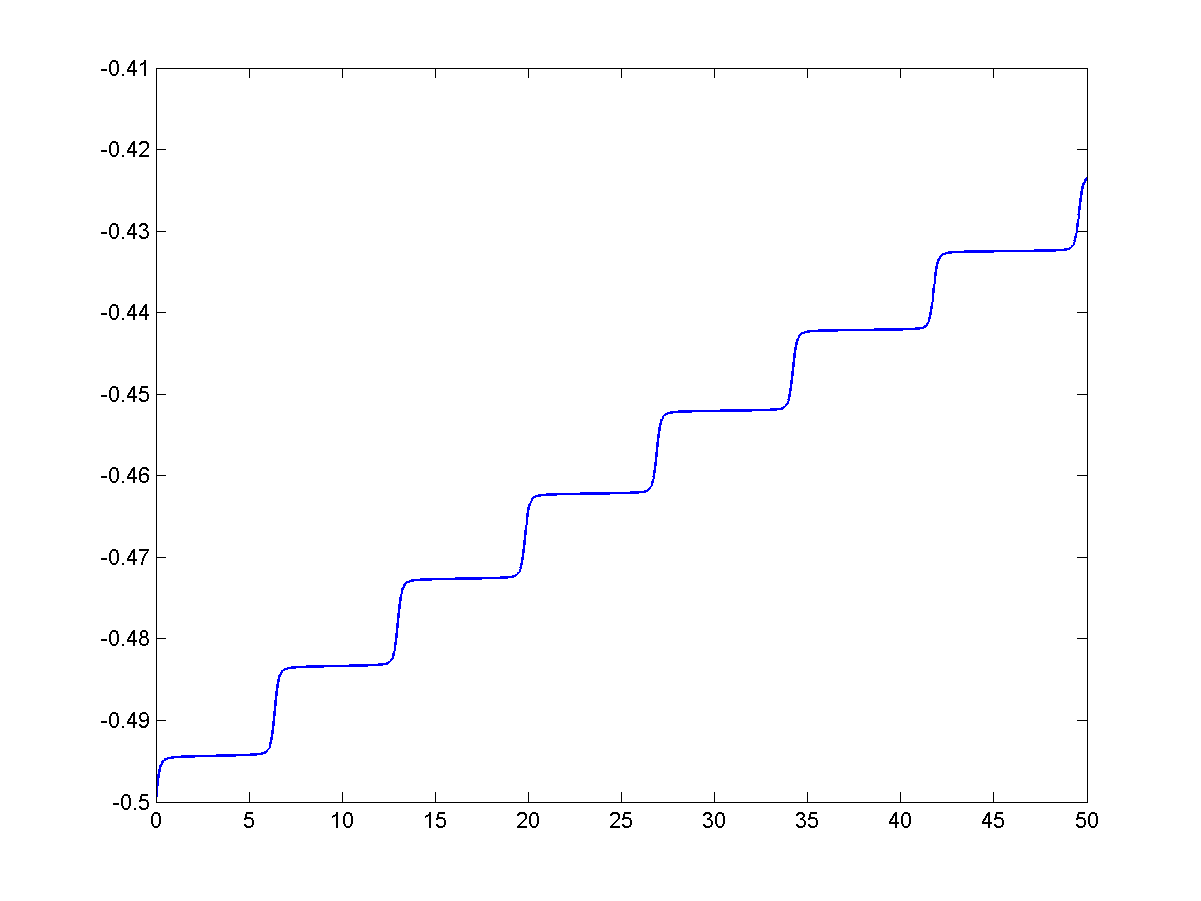
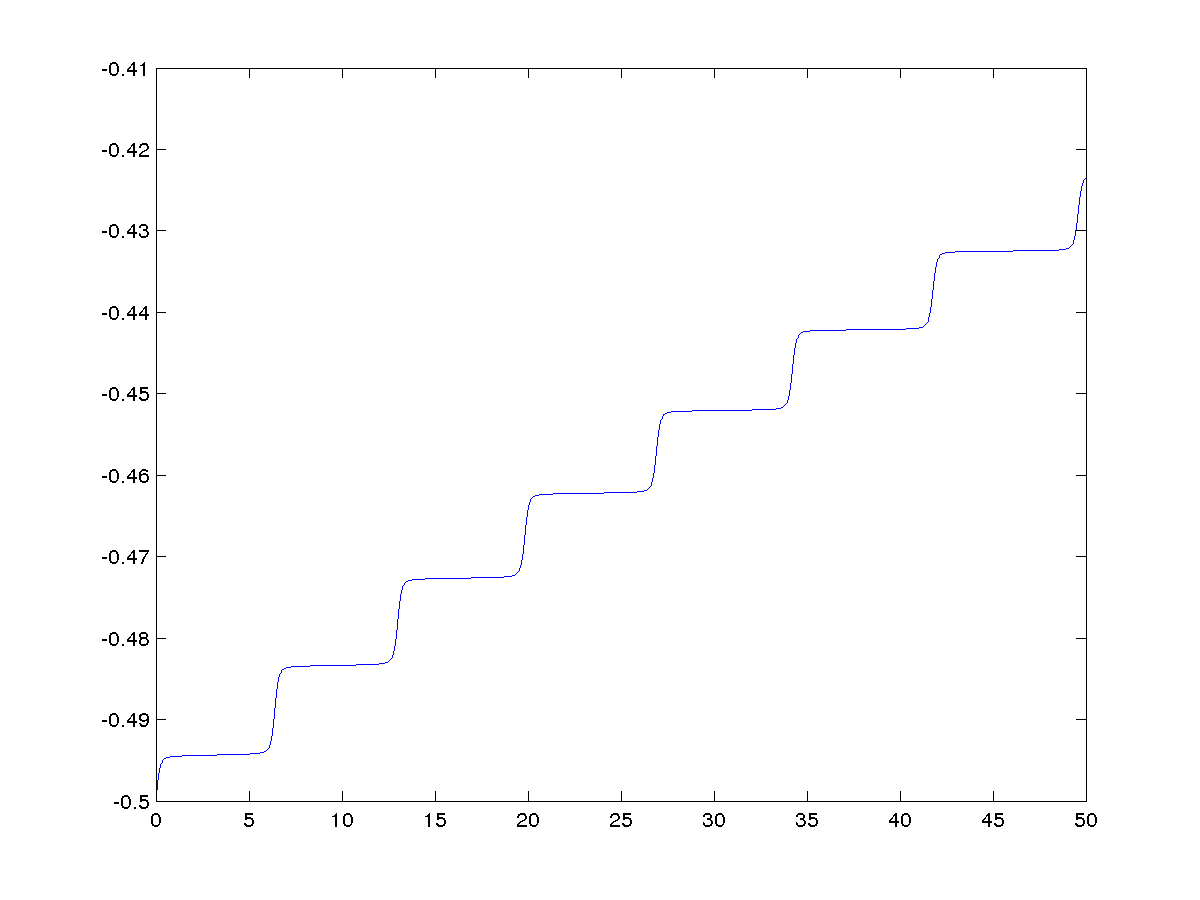
Add lambdas

diff --git a/devoir4/Q1/q1.tex b/devoir4/Q1/q1.tex
@@ -1,6 +1,8 @@
 \section{Question 1}
 \subsection{Équations du mouvement}
-Soit le système hamiltonien à deux corps, d'invariant $\Ha (p,q)$ où $p$ est la vitesse de chaque corps et $q$ leur position \footnote{On a évidemment $p(t)$ et $q(t)$. Pour une planète, la composante $p_1$ représente sa vitesse dans la direction "$x$" du plan et la composante $p_2$, sa vitesse dans la direction "$y$" du plan.}. Considérons tout d'abord un système où un des deux corps a une masse considérablement plus élevée que l'autre, ce qui nous permet de le considérer comme statique. On a alors 
+Soit le système hamiltonien à deux corps, d'invariant $\Ha (p,q)$ où $p$ est la vitesse de chaque corps et $q$ leur position
+\footnote{On a évidemment $p(t)$ et $q(t)$. Pour une planète, la composante $p_1$ représente sa vitesse dans la direction ``$x$'' du plan et la composante $p_2$, sa vitesse dans la direction ``$y$'' du plan.}.
+Considérons tout d'abord un système où un des deux corps a une masse considérablement plus élevée que l'autre, ce qui nous permet de le considérer comme statique. On a alors
 $$\Ha (p,q) = \frac{1}{2} p^T p - \frac{1}{||q||_2} . $$
 On sait que $\dot{\Ha}(p,q) = 0$ car $\Ha$ est invariant dans le temps.
 De plus, comme (par la règle de dérivée en chaîne)
@@ -56,19 +58,22 @@ on calcule
     2q_1\\
     2q_2
   \end{pmatrix}\\
-  & = \frac{-q}{\|q\|_2^3}.
+  & = \frac{-q}{\|q\|_2^3}
 \end{align*}
-Les équations du mouvement sont donc données par : 
+ce qui n'est guère étonnant pour $\dot{q} = p$ car comme $q$ est la position,
+$\dot{q}$ est la vitesse, c'est à dire $p$.
+
+Les équations du mouvement sont donc données par :
 \begin{equation} \label{equation_mvt}
 \left\lbrace
-\begin{array}{ccc} 
+\begin{array}{ccc}
 \dot{q} &=& p\\
 \dot{p} &=&  \frac{-q}{\|q\|_2^3}
 \end{array}
 \right.
 \end{equation}
 
-Ce système d'équation différentiel admet une unique solution dans $\mathbb{R}_0^4$. En effet : 
+Ce système d'équation différentiel admet une unique solution dans $\mathbb{R}_0^4$. En effet :
 \begin{eqnarray}
 ||f_1(x)-f_1(y)|| &\leq & ||x-y|| \\
 ||f_2(x) - f_2(y)|| &\leq & \left\|\frac{x}{\|x\|_2^3} - \frac{y}{\|y\|_2^3}\right\| \leq \max(\frac{1}{\|x\|_2^3}, \frac{1}{\|y\|_2^3}) ||x-y||.
@@ -76,11 +81,11 @@ Ce système d'équation différentiel admet une unique solution dans $\mathbb{R}
 Ce qui implique que le système est Lipschitzien, et par le théorème 5.1 du cours, le système \ref{equation_mvt} admet une unique solution.
 
 \subsection{Description des méthodes numériques}
-Nous souhaitons intégrer ces systèmes d'équations différentiels non-linéaires (de forme générale $y'(t) = f(t,y)$, où $y$ désigne aussi bien un scalaire qu'un vecteur) par des méthodes numériques : 
+Nous souhaitons intégrer ces systèmes d'équations différentiels non-linéaires (de forme générale $y'(t) = f(t,y)$, où $y$ désigne aussi bien un scalaire qu'un vecteur) par des méthodes numériques :
 \begin{itemize}
 \item la méthode d'Euler explicite, $y_{n+1} = y_n + h f(t,y_n)$
 \item la méthode d'Euler implicite, $y_{n+1} = y_n + h f(t,y_{n+1})$ qui demande de résoudre une équation non-linéaire de type $g(y_{n+1})=0$, qu'on résoudra en utilisant la méthode itérative de Newton-Raphson
-\item la méthode d'Euler symplectique qui est une combinaison des méthodes d'Euler implicite et explicite (on applique le schéma implicite à une composante de $y$ et un schéma explicite à l'autre). 
+\item la méthode d'Euler symplectique qui est une combinaison des méthodes d'Euler implicite et explicite (on applique le schéma implicite à une composante de $y$ et un schéma explicite à l'autre).
 \end{itemize}
 
 On remarque que $f_1(q,p) = f_1(p)$ et $f_2(q,p) = f_2(q)$.
@@ -174,7 +179,7 @@ Appliquons a présent ces méthodes sur un cas concret où la planète mobile a 
 $ et $q_0 = \begin{pmatrix}
 0.4\\
 0
-\end{pmatrix} 
+\end{pmatrix}
 $.\\
 
 Nous allons appliquer à ce cas les différentes méthodes d'intégration numérique pour 100 000 pas de temps dont la valeur est $h=5e-4$ (Euler implicite et explicite) ou $h=5e-2$ (Euler symplectique). Les résultats sont donnés à la figure \ref{fig:q1}.
@@ -182,43 +187,58 @@ Nous allons appliquer à ce cas les différentes méthodes d'intégration numér
 
 \begin{figure}
   \centering
-  \begin{subfigure}[b]{0.3\textwidth}
+  \begin{subfigure}[b]{0.45\textwidth}
     \includegraphics[width=\textwidth]{images/Q1_explicite_q.png}
     \caption{$q$ pour explicite}
     \label{fig:q1_explicite_q}
   \end{subfigure}%
   ~ %add desired spacing between images, e. g. ~, \quad, \qquad etc.
   %(or a blank line to force the subfigure onto a new line)
-  \begin{subfigure}[b]{0.3\textwidth}
+  \begin{subfigure}[b]{0.45\textwidth}
+    \includegraphics[width=\textwidth]{images/Q1_explicite_H.png}
+    \caption{$\Ha$ pour explicite}
+    \label{fig:q1_explicite_H}
+  \end{subfigure}
+  \begin{subfigure}[b]{0.45\textwidth}
     \includegraphics[width=\textwidth]{images/Q1_explicite_p.png}
     \caption{$p$ pour explicite}
     \label{fig:q1_explicite_p}
   \end{subfigure}
   ~
-  \begin{subfigure}[b]{0.3\textwidth}
-    \includegraphics[width=\textwidth]{images/Q1_explicite_H.png}
-    \caption{$\Ha$ pour explicite}
-    \label{fig:q1_explicite_H}
+  \begin{subfigure}[b]{0.45\textwidth}
+    \includegraphics[width=\textwidth]{images/Q1_explicite_lambda.png}
+    \caption{$h\lambda(J(q,p))$ pour explicite}
+    \label{fig:q1_explicite_lambda}
   \end{subfigure}
-  \begin{subfigure}[b]{0.3\textwidth}
+  \begin{subfigure}[b]{0.45\textwidth}
     \includegraphics[width=\textwidth]{images/Q1_implicite_q.png}
     \caption{$q$ pour implicite}
     \label{fig:q1_implicite_q}
   \end{subfigure}%
   ~
   %(or a blank line to force the subfigure onto a new line)
-  \begin{subfigure}[b]{0.3\textwidth}
+  \begin{subfigure}[b]{0.45\textwidth}
+    \includegraphics[width=\textwidth]{images/Q1_implicite_H.png}
+    \caption{$\Ha$ pour implicite}
+    \label{fig:q1_implicite_H}
+  \end{subfigure}
+  \begin{subfigure}[b]{0.45\textwidth}
     \includegraphics[width=\textwidth]{images/Q1_implicite_p.png}
     \caption{$p$ pour implicite}
     \label{fig:q1_implicite_p}
   \end{subfigure}
   ~
-  \begin{subfigure}[b]{0.3\textwidth}
-    \includegraphics[width=\textwidth]{images/Q1_implicite_H.png}
-    \caption{$\Ha$ pour implicite}
-    \label{fig:q1_implicite_H}
+  \begin{subfigure}[b]{0.45\textwidth}
+    \includegraphics[width=\textwidth]{images/Q1_implicite_lambda.png}
+    \caption{$h\lambda(J(q,p))$ pour implicite}
+    \label{fig:q1_implicite_lambda}
   \end{subfigure}
+  \caption{Résultats pour la question 1 pour euler explicite et implicite}
+  \label{fig:q1_sym}
+\end{figure}
 
+\begin{figure}
+  \centering
   \begin{subfigure}[b]{0.3\textwidth}
     \includegraphics[width=\textwidth]{images/Q1_symplectique1_q.png}
     \caption{$q$ pour symplectique1}
@@ -256,58 +276,57 @@ Nous allons appliquer à ce cas les différentes méthodes d'intégration numér
     \caption{$\Ha$ pour symplectique2}
     \label{fig:q1_symplectique2_H}
   \end{subfigure}
-  \caption{Résultats pour la question 1}
-  \label{fig:q1}
+  \caption{Résultats pour la question 1 pour euler symplectique}
+  \label{fig:q1_sym}
 \end{figure}
 
 
 Les principaux points de comparaison des méthodes sont la convergence, l'erreur et le temps de calcul de la méthode.
 
-\paragraph{Convergence : }
-Pour étudier la convergence, nous aurons besoin de la Jacobienne :  
-$$J(q,p) = 
+\subsubsection{Convergence}
+Pour étudier la convergence, nous aurons besoin de la Jacobienne :
+$$J(q,p) =
 \begin{pmatrix}
-0 & 0 & 1 & 0\\
-0 & 0 & 0 & 1\\\\
-\frac{2*q_1^2 + q_2^2}{(q_1^2+q_2^2)^{5/2}} & \frac{-3q_1q_2}{(q_1^2+q_2^2)^{5/2}} & 0 & 0 \\
-\frac{-3q_1q_2}{(q_1^2+q_2^2)^{5/2}} & \frac{2*q_2^2 + q_1^2}{(q_1^2+q_2^2)^{5/2}} & 0 & 0
-
-\end{pmatrix}
+  0 & 0 & 1 & 0\\
+  0 & 0 & 0 & 1\\\\
+  \frac{2q_1^2 + q_2^2}{(q_1^2+q_2^2)^{5/2}} & \frac{-3q_1q_2}{(q_1^2+q_2^2)^{5/2}} & 0 & 0 \\
+  \frac{-3q_1q_2}{(q_1^2+q_2^2)^{5/2}} & \frac{2q_2^2 + q_1^2}{(q_1^2+q_2^2)^{5/2}} & 0 & 0
+\end{pmatrix}.
 $$
-Pour rappel, l'erreur entre la "vraie" solution d'une équation différentielle ordinaire et celle obtenue pour des conditions initiales perturbée est définie comme : 
-$$\left\lbrace 
+Pour rappel, l'erreur entre la ``vraie'' solution d'une équation différentielle ordinaire et celle obtenue pour des conditions initiales perturbée est définie comme :
+$$\left\lbrace
 \begin{array}{ccc}
 e' &=& \lambda e\\
 e(a) &=& \epsilon
 \end{array}
-\right.  
-$$ 
-Où $\lambda$ est la jacobienne du système évaluée en un certain point. Le système sera donc stable si $\mathcal{R} (J) <0$. Pour un système d'équations différentielles, on a donc : 
-$$\left\lbrace 
+\right.
+$$
+Où $\lambda$ est la jacobienne du système évaluée en un certain point. Le système sera donc stable si $\mathcal{R} (J) <0$. Pour un système d'équations différentielles, on a donc :
+$$\left\lbrace
 \begin{array}{ccc}
 e' &=& A e\\
 e(a) &=& \epsilon
 \end{array}
-\right.  
-$$ 
-Si $A$ est diagonalisable, on peut effectuer un changement de variable tel que 
-$$\left\lbrace 
+\right.
+$$
+Si $A$ est diagonalisable, on peut effectuer un changement de variable tel que
+$$\left\lbrace
 \begin{array}{ccc}
 \tilde{e} ' &=& D \tilde{e}\\
 \tilde{e} (a) &=& \epsilon
 \end{array}
-\right.  
-$$ 
+\right.
+$$
 Où $D$ est la matrice diagonale des valeurs propres. On se retrouve alors avec $n$ équations différentielle découplées dont la condition de stabilité est $\mathcal{R} (\lambda_i) <0$; c'est-à-dire tel que toutes les valeurs propres de la jacobienne soient à gauche de l'axe imaginaire.\\
-On voit directement que notre système n'est pas stable. En effet, calculons par exemple les valeurs propres au point de départ : 
-$$J(q,p) = 
+On voit directement que notre système n'est pas stable. En effet, calculons par exemple les valeurs propres au point de départ :
+$$J(q,p) =
 \begin{pmatrix}
 0 & 0 & 1 & 0\\
 0 & 0 & 0 & 1\\\\
  31.2500 & 0  & 0 & 0 \\
 0 & 15.6250 & 0 & 0
 \end{pmatrix}
-\Longrightarrow eig(J(p,q))=
+\Longrightarrow \mathrm{eig}(J(p,q))=
 \begin{pmatrix}
 5.5902\\
 -5.5902\\
@@ -316,8 +335,15 @@ $$J(q,p) =
 \end{pmatrix}
 $$
 
-Les résultats numériques des valeurs de $h \lambda$ à chaque itération (la jacobienne variant à chaque itération) sont donnés à la figure \ref{fig:hlambda}. On voit clairement que ces valeurs sont en dehors des zones de convergences d'Euler explicite (cercle de centre $(-1,0)$ et de rayon 1) ainsi que d'Euler implicite (tout le plan excepté le cercle de centre $(1,0)$ et de rayon 1), ce qui est bien naturel étant donné que l'équation analytique est elle-même instable.
-Notons bien sûre que le modèle n'est pas purement et simplement instable. En effet, comme la jacobienne dépend de $q$, il existe des zones de stabilité et des zones d'instabilité. Ce qui explique pourquoi le modèle n'explose pas après quelques itérations.
+Les résultats numériques des valeurs de $h \lambda$ à chaque itération (la jacobienne variant à chaque itération)
+sont donnés à la figure~\ref{fig:hlambda}.
+On voit clairement que ces valeurs sont en dehors des zones de convergences d'Euler explicite
+(cercle de centre $(-1,0)$ et de rayon 1) ainsi que d'Euler implicite
+(tout le plan excepté le cercle de centre $(1,0)$ et de rayon 1),
+ce qui est bien naturel étant donné que l'équation analytique est elle-même instable.
+Notons bien sûre que le modèle n'est pas purement et simplement instable.
+En effet, comme la jacobienne dépend de $q$, il existe des zones de stabilité et des zones d'instabilité.
+Ce qui explique pourquoi le modèle n'explose pas après quelques itérations.
 
 \begin{figure}
   \centering
@@ -345,7 +371,8 @@ Notons bien sûre que le modèle n'est pas purement et simplement instable. En e
   \label{fig:hlambda}
 \end{figure}
 
-Que se passe-t-il si on prend un pas $h$ trop grand? Les valeurs propres tendent toutes vers 0 et on obtient les résultats de la figure \ref{fig_rater}
+Que se passe-t-il si on prend un pas $h$ trop grand?
+Les valeurs propres tendent toutes vers 0 et on obtient les résultats de la figure~\ref{fig_rater}.
 
 \begin{figure}
   \centering
@@ -371,18 +398,39 @@ Que se passe-t-il si on prend un pas $h$ trop grand? Les valeurs propres tendent
 \label{fig_rater}
 \end{figure}
 
-\paragraph{Erreur : }
-L'erreur est par définition la différence entre la solution exacte et la solution obtenue par intégration numérique. Comme nous ne disposons pas de la solution exacte, nous ne pouvons pas utiliser cette définition. Cependant, nous pouvons utiliser le graphe de $\Ha$. 
-En effet, nous savons que la solution exacte est telle que $\dot{\Ha} = 0$ ou autrement dit $\Ha$ ne varie pas avec le temps (d'une itération à l'autre). Or sur la figure \ref{fig:q1}, on remarque que $\Ha$ augmente puis se stabilise plus ou moins à une certaine valeur (pour Euler explicite autour de $-0.495$ alors que la valeur initiale se situe à $-0.5$); tandis qu'il diminue puis se stabilise autour d'une certaine valeur ($-0.505$) pour Euler implicite. 
-On peut interpréter cela de la manière suivante. Le système d'équations différentielles \ref{equation_mvt} possède une infinité de solutions qui forment une famille de solutions. Avec une condition initiale, on obtient alors une unique solution (si la condition de Lipschitz est satisfaite). 
-Lorsqu'on intègre numériquement ce système avec les méthodes d'Euler, on commet forcément des erreurs qui, d'une itération à l'autre, nous font en quelques sorte passer d'une courbe de cette famille de solutions à une autre. 
-Ainsi on sur la figure \ref{fig:q1_explicite_H} on passe d'une courbe de la famille de solution à une autre pour ensuite se stabiliser au alentour d'une solution (pour laquelle $\Ha=-0.505$) qui n'est pas la vraie solution, mais qui en est à une distance constante. Pour Euler implicite (figure \ref{fig:q1_implicite_H}), c'est la même chose, sauf qu'on stabilise autour d'une autre courbe de cette famille de solution (pour laquelle $\Ha = -0.495$). 
-Pour le cas d'Euler symplectique, étant donné que le pas vaut $h=5.10^{-2}$, les 10000 itérations nous emmènent plus loin dans le temps. A chaque fois que l'on repasse près du point de départ, on change de courbe dans la famille de solutions (on oscille donc autour de la vraie solution, à une distance qui reste stable et relativement petite \footnote{On observe que Euler symplectique commet une erreur sur le $\Ha$ qui est plus grande que celle commise par Euler implicite ou explicite (on oscille ici entre $-0.4$ et $-0.54$). Cela est du au fait que la discrétisation temporelle est plus grossière. D'ailleurs si on applique Euler symplectique avec $h=5.10^{-4}$, on obtient un $\Ha$ dont la valeur oscille entre $-0.495$ et $0.505$.}). Alors que dans le cas d'un pas de temps beaucoup trop grand comme dans la figure \ref{fig_rater}, on va aussi s'écarter de la vraie solution pour se stabiliser autour d'une courbe de la famille de solutions (l'erreur reste alors constante, cf. figure \ref{fig_rater}), mais à une distance beaucoup plus grande de la vraie solution!
+\subsubsection{Erreur}
+L'erreur est par définition la différence entre la solution exacte et la solution obtenue par intégration numérique.
+Comme nous ne disposons pas de la solution exacte, nous ne pouvons pas utiliser cette définition. Cependant, nous pouvons utiliser le graphe de $\Ha$.
+En effet, nous savons que la solution exacte est telle que $\dot{\Ha} = 0$ ou autrement dit $\Ha$ ne varie pas avec le temps (d'une itération à l'autre).
+Or sur la figure \ref{fig:q1}, on remarque que $\Ha$ augmente puis se stabilise plus ou moins à une certaine valeur (pour Euler explicite autour de $-0.495$ alors que la valeur initiale se situe à $-0.5$);
+tandis qu'il diminue puis se stabilise autour d'une certaine valeur ($-0.505$) pour Euler implicite.
+On peut interpréter cela de la manière suivante.
+Le système d'équations différentielles \ref{equation_mvt} possède une infinité de solutions qui forment une famille de solutions.
+Avec une condition initiale, on obtient alors une unique solution (si la condition de Lipschitz est satisfaite).
+Lorsqu'on intègre numériquement ce système avec les méthodes d'Euler,
+on commet forcément des erreurs qui, d'une itération à l'autre,
+nous font en quelques sorte passer d'une courbe de cette famille de solutions à une autre.
+Ainsi sur la figure \ref{fig:q1_explicite_H} on passe d'une courbe de la famille de solution à une autre pour ensuite se stabiliser au alentour d'une solution (pour laquelle $\Ha=-0.505$) qui n'est pas la vraie solution,
+mais qui en est à une distance constante. Pour Euler implicite (figure \ref{fig:q1_implicite_H}),
+c'est la même chose, sauf qu'on stabilise autour d'une autre courbe de cette famille de solution (pour laquelle $\Ha = -0.495$).
+Pour le cas d'Euler symplectique, étant donné que le pas vaut $h=5 \cdot 10^{-2}$, les 10000 itérations nous emmènent plus loin dans le temps.
+À chaque fois que l'on repasse près du point de départ,
+on change de courbe dans la famille de solutions (on oscille donc autour de la vraie solution,
+à une distance qui reste stable et relativement petite
+\footnote{On observe que Euler symplectique commet une erreur sur le $\Ha$ qui est plus grande que celle commise par Euler implicite ou explicite (on oscille ici entre $-0.4$ et $-0.54$).
+Cela est du au fait que la discrétisation temporelle est plus grossière.
+D'ailleurs si on applique Euler symplectique avec $h=5.10^{-4}$, on obtient un $\Ha$ dont la valeur oscille entre $-0.495$ et $-0.505$.}).
+Alors que dans le cas d'un pas de temps beaucoup trop grand comme dans la figure \ref{fig_rater},
+on va aussi s'écarter de la vraie solution pour se stabiliser autour d'une courbe de la famille de solutions
+(l'erreur reste alors constante, cf. figure \ref{fig_rater}), mais à une distance beaucoup plus grande de la vraie solution!
 
 
 
-\paragraph{Temps de calcul : }
-La méthode d'Euler explicite demande simplement d'évaluer les fonctions $f_1(p)$ et $f_2(q)$ à chaque itération. Alors que la méthode d'Euler implicite exige à chaque itération, de résoudre une équation non-linéaire. Le nombre d'itérations demandées à Newton-Raphson pour converger est illustré à la figure \ref{IterNR}.
+\subsubsection{Temps de calcul}
+La méthode d'Euler explicite demande simplement d'évaluer les fonctions $f_1(p)$ et $f_2(q)$ à chaque itération.
+Alors que la méthode d'Euler implicite exige à chaque itération,
+de résoudre une équation non-linéaire.
+Le nombre d'itérations demandées à Newton-Raphson pour converger est illustré à la figure \ref{IterNR}.
 
 \begin{figure}
 \centering
@@ -412,10 +460,3 @@ Comme prévu, les méthodes d'Euler explicite et symplectique demande un temps d
 
 \paragraph{Conclusion : } En théorie, le seul avantage de la méthode d'Euler implicite sur les autres est le fait qu'elle soit inconditionnellement stable. Cependant, on peut douter de l'intérêt d'utiliser une méthode inconditionnellement stable lorsqu'on résout une équation instable. D'ailleurs, si on applique Euler implicite avec un pas trop grand ($h=5.10^{-2}$, par exemple), on diverge tout autant qu'avec Euler explicite. \\
   Les méthodes symplectiques semblent être les plus avantageuses. En effet, bien qu'elles soient d'ordre 1 tout comme Euler implicite et explicite, elle donnent des résultats correctes pour un pas de temps $h=5.10^{-2}$, contrairement aux deux autres. Intuitivement, en comparant les figure \ref{fig:q1_explicite_H} et \ref{fig:q1_implicite_H}, on remarque que Euler implicite part dans un sens alors que l'explicite part dans l'autre. Comme la méthode symplectique fait une combinaison des deux, les erreurs se corrigent l'une l'autre.
-
-
-
-
-
-
-

diff --git a/devoir4/matlab/Q.m b/devoir4/matlab/Q.m
@@ -13,6 +13,7 @@ if num == 1
     f_1 = @f_1_q1;
     f_2 = @f_2_q1;
     H = @H_q1;
+    eigen_values = @eigen_values_q1;
 else
     q_0 = [0.4; 0; 0; 0];
     p_0 = [0; 2; 0; -2];
@@ -42,6 +43,7 @@ elseif strcmp(method, 'symplectique2')
     [p, q] = euler_symplectique2(f_1, f_2, q_0, p_0, h, n);
 end
 toc()
+tic
 figure();
 plot(q(1,:), q(2,:), 'linewidth', 0.5);
 xlabel('x');
@@ -65,11 +67,24 @@ end
 saveas(gcf, sprintf('../images/Q%d_%s_p', num, method), 'png');
 
 figure();
-h = zeros(1,n+1);
+Hs = zeros(1,n+1);
 xlabel('temps');
 for i = 1:n+1
-    h(i) = H(q(:,i), p(:,i));
+    Hs(i) = H(q(:,i), p(:,i));
 end
-plot(t, h, 'linewidth', 0.5);
+plot(t, Hs, 'linewidth', 0.5);
 saveas(gcf, sprintf('../images/Q%d_%s_H', num, method), 'png');
+
+if num == 1
+    figure();
+    lambda = zeros(4,n+1);
+    xlabel('temps');
+    for i = 1:n+1
+        lambda(:,i) = eigen_values(q(:,i), p(:,i));
+    end
+    plot(t, h*lambda, 'linewidth', 0.5);
+    legend('\lambda_1', '\lambda_2', '\lambda_3', '\lambda_4');
+    saveas(gcf, sprintf('../images/Q%d_%s_lambda', num, method), 'png');
+end
+toc
 end

diff --git a/devoir4/matlab/eigen_values_q1.m b/devoir4/matlab/eigen_values_q1.m
@@ -1,0 +1,6 @@
+function ev = eigen_values_q1(q, p)
+J = [...
+    zeros(2, 2) J_1_q1(p);
+    J_2_q1(q) zeros(2, 2)];
+ev = eigs(J);
+end
